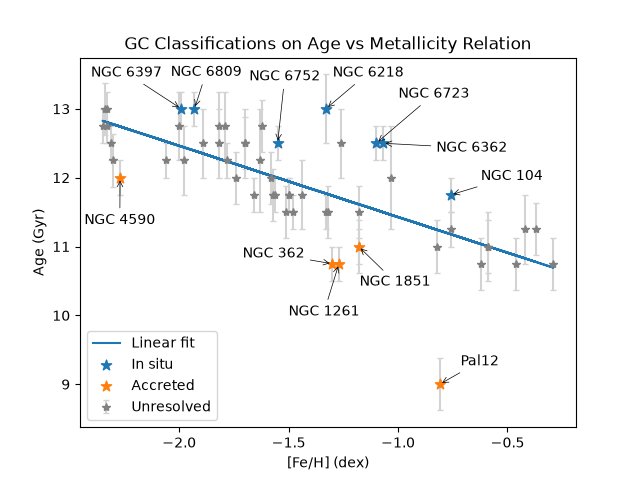
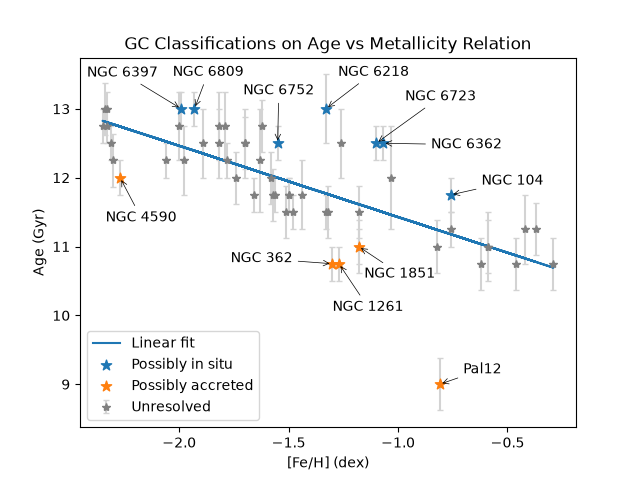
Standardised plots which overlay stellar property classifications on AMR

diff --git a/src/AMR_plots/hbtype_plots.py b/src/AMR_plots/hbtype_plots.py
@@ -15,9 +15,11 @@ plt.errorbar(
     vandenBergData["Age"],
     yerr = vandenBergData["Age_err"],
     fmt = '*', 
-    ecolor = 'gray',
+    ecolor = 'lightgray',
+    color = 'gray',
     markersize = 6,
-    capsize = 2,
+    capsize = 2
+    # label = 'Unresolved'
 )
 
 # Fit a linear curve then plot
@@ -27,12 +29,12 @@ plt.plot(
     label='Linear fit', color = 'orange'
 )
 
-# # Add colourbar for HBType values 
-# hbtype = plt.scatter(
-#     vandenBergData["FeH"], vandenBergData["Age"],
-#     c = vandenBergData["HBtype"], cmap = "RdBu", marker = '*', s = 80, zorder = 3
-# )
-# plt.colorbar(hbtype, label="HB type")
+# Add colourbar for HBType values 
+hbtype = plt.scatter(
+    vandenBergData["FeH"], vandenBergData["Age"],
+    c = vandenBergData["HBtype"], cmap = "RdBu", marker = '*', s = 80, zorder = 3
+)
+plt.colorbar(hbtype, label="HB type")
 
 data = pd.read_csv("data/mergedData.csv")
 vb = data[data["Age"].notna()].copy() # Isolate just VandenBerg data
@@ -40,26 +42,26 @@ vb = data[data["Age"].notna()].copy() # Isolate just VandenBerg data
 # Isolate region between -1.5 and -1.0 metallicity (where branching is clearest)
 s = vb[(vb["FeH"] > -1.5) & (vb["FeH"] < -1.0)] 
 # Add vertical lines at these thresholds
-plt.axvline(x=-1.5, color='black', linestyle='--', linewidth=1, label='[Fe/H] = -1.5 (dex)')
-plt.axvline(x=-1.0, color='black', linestyle='--', linewidth=1, label='[Fe/H] = -1.0 (dex)')
+plt.axvline(x=-1.5, color='black', linestyle='--', linewidth=1)
+plt.axvline(x=-1.0, color='black', linestyle='--', linewidth=1)
 
-# Isolate and label upper and lower outliers from Metallicity-Age relation
-accreted = s[(s["Age_residual"] < -2)]
-inSitu = s[(s["Age_residual"] > 2)]
-outliers = pd.concat([accreted, inSitu])
+# # Isolate and label upper and lower outliers from Metallicity-Age relation
+# accreted = s[(s["Age_residual"] < -2)]
+# inSitu = s[(s["Age_residual"] > 2)]
+# outliers = pd.concat([accreted, inSitu])
 
-for name, x, y in zip(outliers["ID"], outliers["FeH"], outliers["Age"]):
-    annot = plt.annotate(name, xy = (x,y), xytext = (5,5), textcoords = "offset points", arrowprops=dict(arrowstyle="->", color="black", lw=0.5))
-    annot.draggable(True)
+# for name, x, y in zip(outliers["ID"], outliers["FeH"], outliers["Age"]):
+#     annot = plt.annotate(name, xy = (x,y), xytext = (5,5), textcoords = "offset points", arrowprops=dict(arrowstyle="->", color="black", lw=0.5))
+#     annot.draggable(True)
 
 # Add labels and title
 plt.xlabel("[Fe/H] (dex)")
 plt.ylabel("Age (Gyr)")
-plt.title("GC Classifications using Age vs Metallicity Relation \n and HBType Data")
+plt.title("Age vs Metallicity Relation with HB Type")
 
 # Add legend
-plt.scatter(accreted["FeH"], accreted["Age"], color="orange", marker="*", s=60, zorder=4, label="Possibly accreted")
-plt.scatter(inSitu["FeH"], inSitu["Age"], color="green", marker="*", s=60, zorder=4, label="Possibly in-situ")
+# plt.scatter(accreted["FeH"], accreted["Age"], color="C1", marker="*", s=60, zorder=4, label="Possibly accreted")
+# plt.scatter(inSitu["FeH"], inSitu["Age"], color="C0", marker="*", s=60, zorder=4, label="Possibly in-situ")
 plt.legend(loc="lower left")
 
 # Show and save

diff --git a/src/AMR_plots/gcr_plots.py b/src/AMR_plots/gcr_plots.py
@@ -16,6 +16,7 @@ plt.errorbar(
     yerr = vandenBergData["Age_err"],
     fmt = '*', 
     ecolor = 'gray',
+    color = 'lightgray',
     markersize = 6,
     capsize = 2,
 )
@@ -49,11 +50,11 @@ for name, x, y in zip(outliers["ID"], outliers["FeH"], outliers["Age"]):
 # Add labels and title
 plt.xlabel("[Fe/H] (dex)")
 plt.ylabel("Age (Gyr)")
-plt.title("GC Classifications using Age vs Metallicity Relation \n and Galactocentric Radius Data")
+plt.title("GC Classifications using Galactocentric Radius Data \n on Age vs Metallicity Relation")
 
 # Add legend
-plt.scatter(accreted["FeH"], accreted["Age"], color="orange", marker="*", s=60, zorder=4, label="Possibly accreted")
-plt.scatter(inSitu["FeH"], inSitu["Age"], color="green", marker="*", s=60, zorder=4, label="Possibly in-situ")
+plt.scatter(accreted["FeH"], accreted["Age"], color="C1", marker="*", s=60, zorder=4, label="Possibly accreted")
+plt.scatter(inSitu["FeH"], inSitu["Age"], color="C0", marker="*", s=60, zorder=4, label="Possibly in-situ")
 plt.legend(loc="lower left")
 
 # Show and save

diff --git a/src/AMR_plots/z_plots.py b/src/AMR_plots/z_plots.py
@@ -16,6 +16,7 @@ plt.errorbar(
     yerr = vandenBergData["Age_err"],
     fmt = '*', 
     ecolor = 'gray',
+    color = 'lightgray',
     markersize = 6,
     capsize = 2,
 )
@@ -49,11 +50,11 @@ for name, x, y in zip(outliers["ID"], outliers["FeH"], outliers["Age"]):
 # Add labels and title
 plt.xlabel("[Fe/H] (dex)")
 plt.ylabel("Age (Gyr)")
-plt.title("GC Classifications using Age vs Metallicity Relation \n and Vertical Distance Data")
+plt.title("GC Classifications using Vertical Distance Data \n on Age vs Metallicity Relation")
 
 # Add legend
-plt.scatter(accreted["FeH"], accreted["Age"], color="orange", marker="*", s=60, zorder=4, label="Possibly accreted")
-plt.scatter(inSitu["FeH"], inSitu["Age"], color="green", marker="*", s=60, zorder=4, label="Possibly in-situ")
+plt.scatter(accreted["FeH"], accreted["Age"], color="C1", marker="*", s=60, zorder=4, label="Possibly accreted")
+plt.scatter(inSitu["FeH"], inSitu["Age"], color="C0", marker="*", s=60, zorder=4, label="Possibly in-situ")
 plt.legend(loc="lower left")
 
 # Show and save

diff --git a/src/AMR_plots/age_metallicity_plots.py b/src/AMR_plots/age_metallicity_plots.py
@@ -129,7 +129,7 @@ unresolved = vandenBergData[(vandenBergData["Classification_AMR"] == 'Unresolved
 
 plt.scatter(
     inSitu["FeH"], inSitu["Age"],
-    label = 'In situ',
+    label = 'Possibly in situ',
     marker = '*',
     color = 'C0',
     s = 60,
@@ -138,7 +138,7 @@ plt.scatter(
 
 plt.scatter(
     accreted["FeH"], accreted["Age"],
-    label = 'Accreted',
+    label = 'Possibly accreted',
     marker = '*', 
     color = 'C1',
     s = 60,
